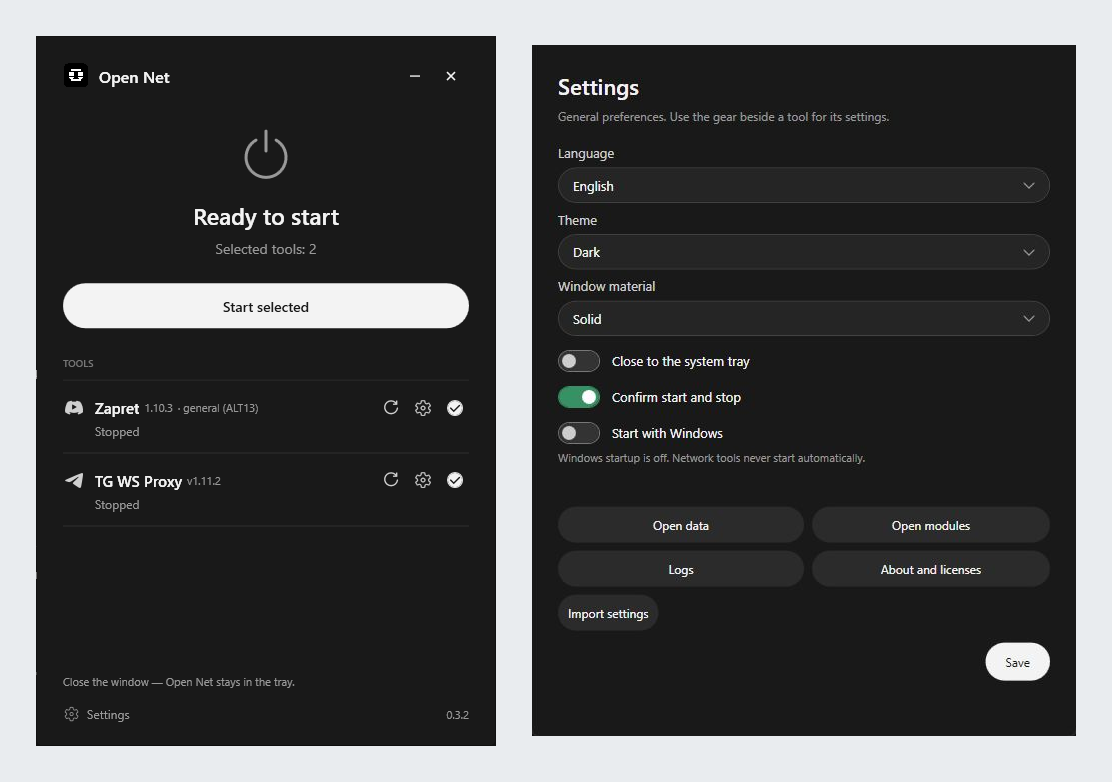
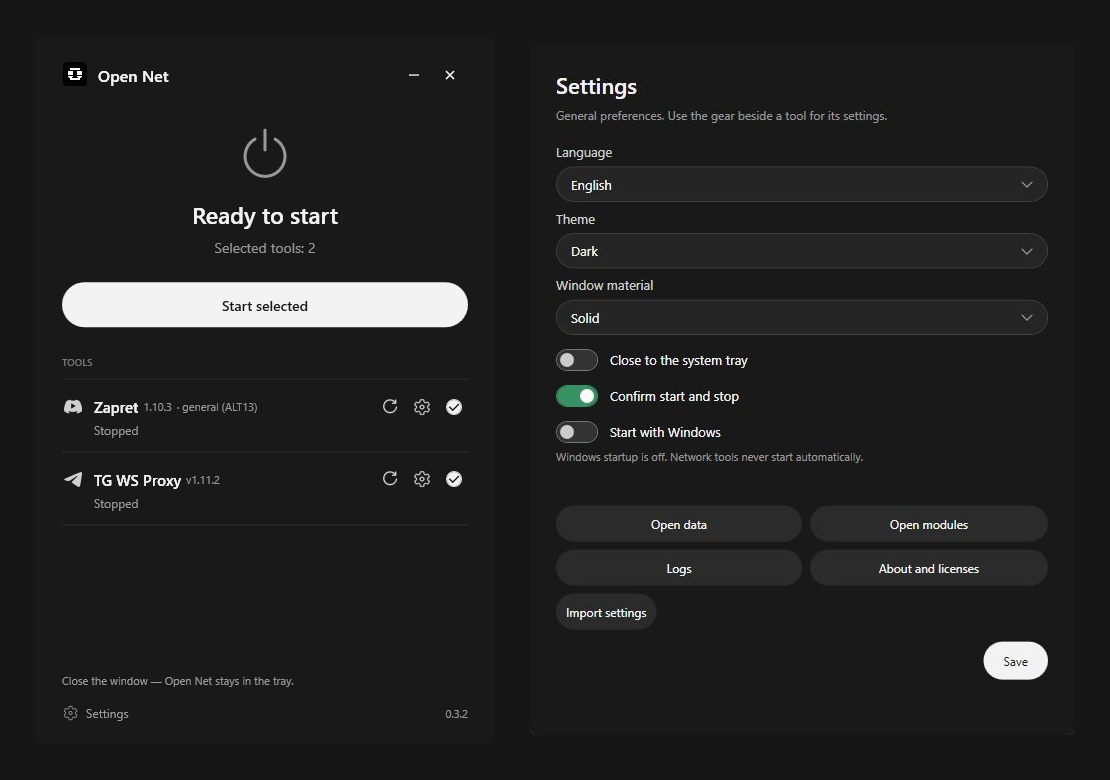
docs: finalize approved dark release presentation

diff --git a/docs/README_RU.md b/docs/README_RU.md
@@ -15,15 +15,7 @@
 
 [![Главное окно Open Net и настройки](../assets/screenshots/v0.3.2/overview.png)](../assets/screenshots/v0.3.2/overview.png)
 
-### Тёмная тема
-
-[![Open Net — тёмная тема](../assets/screenshots/v0.3.2/main-dark.png)](../assets/screenshots/v0.3.2/main-dark.png)
-
-### Светлая тема
-
-[![Open Net — светлая тема](../assets/screenshots/v0.3.2/main-light.png)](../assets/screenshots/v0.3.2/main-light.png)
-
-Реальные окна Open Net 0.3.2 с материалом **Solid / Сплошная** на нейтральном фоне. Главное окно снято в проверенном безопасном тестовом состоянии; настройки — в утверждённом production EXE с изолированным профилем. Показанные инструменты не входят в комплект. Нажмите изображение для просмотра в исходном размере. [Снимок настроек](../assets/screenshots/v0.3.2/settings.png).
+Реальные окна Open Net 0.3.2 с материалом **Solid / Сплошная** на тёмном нейтральном фоне. Главное окно снято в проверенном безопасном тестовом состоянии; настройки — в утверждённом production EXE с изолированным профилем. Показанные инструменты не входят в комплект. Нажмите изображение для просмотра в исходном размере. [Снимок настроек](../assets/screenshots/v0.3.2/settings.png).
 
 ## Скачать
 
@@ -34,8 +26,6 @@
 Распакуйте архив в отдельную папку и запустите `Open Net.exe`. Данные хранятся рядом с приложением.
 
 Zapret и TG WS Proxy не входят в комплект — их можно установить через Open Net. [Все релизы](https://github.com/MaratKraft/Open-Net/releases) · [Последний стабильный релиз](https://github.com/MaratKraft/Open-Net/releases/latest).
-
-_v0.3.2 ожидает согласования выпуска. Прямые ссылки заработают после публикации._
 
 ## Возможности
 

diff --git a/README.md b/README.md
@@ -15,15 +15,7 @@ Install supported network tools, choose their settings and manage them from one 
 
 [![Open Net main window and settings](assets/screenshots/v0.3.2/overview.png)](assets/screenshots/v0.3.2/overview.png)
 
-### Dark
-
-[![Open Net — Dark theme](assets/screenshots/v0.3.2/main-dark.png)](assets/screenshots/v0.3.2/main-dark.png)
-
-### Light
-
-[![Open Net — Light theme](assets/screenshots/v0.3.2/main-light.png)](assets/screenshots/v0.3.2/main-light.png)
-
-Real Open Net 0.3.2 windows with **Solid** material, placed on a neutral background. The main-window captures use the verified safe test state; the settings capture uses the approved production EXE and an isolated profile. Shown tools are not bundled. Click an image for its original size. [Settings screenshot](assets/screenshots/v0.3.2/settings.png).
+Real Open Net 0.3.2 windows with **Solid** material, placed on a dark neutral background. The main-window captures use the verified safe test state; the settings capture uses the approved production EXE and an isolated profile. Shown tools are not bundled. Click an image for its original size. [Settings screenshot](assets/screenshots/v0.3.2/settings.png).
 
 ## Download
 
@@ -34,8 +26,6 @@ Download the EXE and run it. Data stays in `%LOCALAPPDATA%\Open Net`.
 Extract into a separate folder and run `Open Net.exe`. Data stays beside the application.
 
 Zapret and TG WS Proxy are not included; install them through Open Net. [Releases](https://github.com/MaratKraft/Open-Net/releases) · [Latest stable release](https://github.com/MaratKraft/Open-Net/releases/latest).
-
-_v0.3.2 is awaiting release approval. Its direct download links become active after publication._
 
 ## Features
 

diff --git a/docs/VALIDATION_v0.3.2_RELEASE.md b/docs/VALIDATION_v0.3.2_RELEASE.md
@@ -20,7 +20,7 @@ The screenshots show sample component states, not a claim that components are bu
 
 ## Release gates and limitations
 
-Publication and merge are pending owner approval of the README/gallery/release layout. The user-supplied Zapret symbol is a derivative brand asset: [its retained notice](../assets/Notices/Zapret-ICON.txt) records that separate permission has not been supplied. Discord's published brand guidelines restrict changes to its logo. This is an unresolved permission question to address before public Stable distribution; MIT for the shell does not clear third-party marks. No icon redesign is made in this release-preparation task.
+The owner approved publication and merge on 2026-10-12, with a dark presentation background and no separate Dark/Light comparison in the README. The user-supplied Zapret symbol is a derivative brand asset: [its retained notice](../assets/Notices/Zapret-ICON.txt) records that separate permission has not been supplied. Discord's published brand guidelines restrict changes to its logo. The owner was informed of this unresolved permission question before authorizing publication; that authorization is not evidence of third-party permission. MIT for the shell does not clear third-party marks. No icon redesign is made in this release-preparation task.
 
 Real Windows 10, physical multi-monitor/DPI/hardware input, live network/UAC behavior and startup after a real Windows sign-in remain target-machine checks. Safe tests launch only owned stubs; upstream executables, BATs and WinDivert drivers are not executed. EXEs are unsigned. Initial GitHub access and offline import trust requirements still apply.
 

diff --git a/CHANGELOG.md b/CHANGELOG.md
@@ -1,6 +1,6 @@
 # Changelog
 
-## v0.3.2 — Unreleased
+## v0.3.2 Stable — 2026-10-12
 
 - Approved compact variant A: original 1.4 DIP rounded Refresh/Download contours, a short straight download bar, 15.8 DIP Settings and 16 DIP Select. Gear centering stays fixed across action/loading states. The owner's second rounded Zapret SVG replaces the preceding SVG after staged visual approval.
 - Optical refinement: 17 DIP Download/Refresh and Select ink with unchanged 28 DIP hit areas, shared calm action foreground, stable gear during loading and a shared 12 DIP module marker-to-text gap. The owner's Zapret SVG is retained as themed vector geometry; its brand-permission limitation is documented separately.
@@ -16,7 +16,7 @@
 - Shared System/Light/Dark palettes for all owned windows, dialogs, controls and tray menus; independent Mica/Acrylic/solid material selection.
 - Published v0.3.1 settings retain dark appearance until a new theme is chosen; new installs default to System, reacting to Windows app-theme changes.
 - Only the module list scrolls; main dimensions and existing network/storage/tray/autostart contracts are preserved.
-- Permanent Git/PR workflow documentation and safe headless CI checks. No future placeholder modules, release publication or main merge.
+- Permanent Git/PR workflow documentation and safe headless CI checks. No future placeholder modules.
 
 
 ## 0.3.1 Beta — 2026-10-12 — first public release
